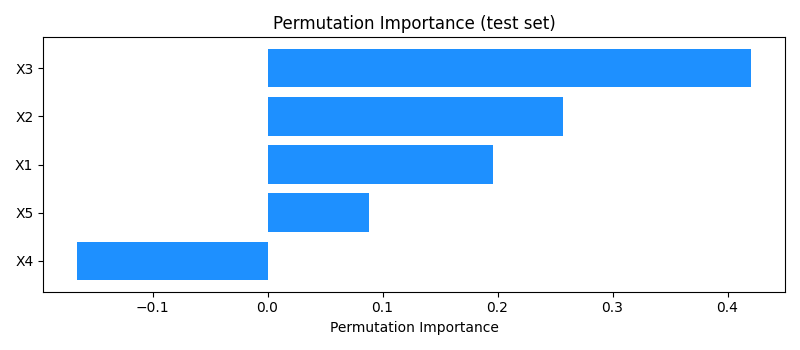
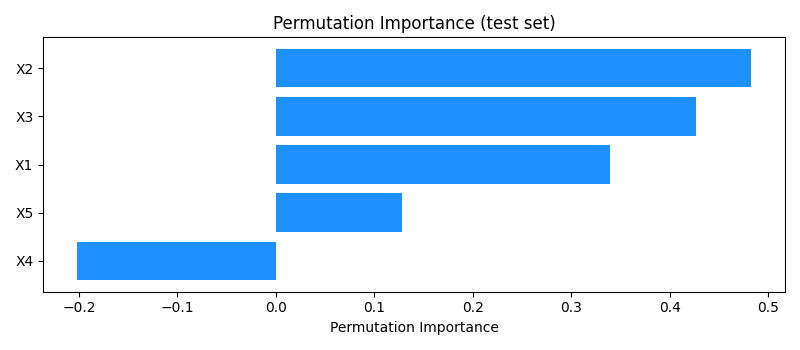
add references

diff --git a/sim.py b/sim.py
@@ -9,26 +9,29 @@ from sklearn.inspection import permutation_importance
 from sklearn.model_selection import train_test_split, GridSearchCV
 from Functions.gen_data import add_noise, extract_coef
 from Functions.plotting import plot_impurity, plot_permutation, plot_SHAP, plot_SHAP_force, plot_PDP, plot_ICE, \
-    check_corr, print_tree
+    check_corr, print_tree, plot_multiple_permutations
 from Functions.pred import define_model
 
-
+# =================================
 # Define the changeable parameters:
-# supported model classes: "enet" for elastic net regression, "lasso" for lasso regression,
+# =================================
+
+# supported model classes for pred_model: "enet" for elastic net regression, "lasso" for lasso regression,
 # ..."tree" for a decision tree, and "rf" for a random forest
-pred_model = "rf" # prediction model used (see above for alternatives)
+
+pred_model = "tree" # string defining the prediction model to use (see above for alternatives)
 n_samples = 100 # number of samples in generated data
 n_features = 5 # number of features (or "independent variables") in generated data
 mean = 0 # mean of generated data
 sd = 1 # standard deviation of generated data
 iv_cor = 0.6 # the Pearson r correlation of the features with one another in the generated data
-dv_r2 = 0.6 # the R squared value representing the extent the features can explain y in the full generated dataset
+dv_r2 = 0.6 # the R-squared value representing the extent the features can explain y in the full generated dataset
 test_size = 0.5 # ratio of training:test data
 cv = 5 # number of cross-validation splits
-scoring = "r2" # used for both the training and the testing: 'r2' is prediction R squared, for other options, see: https://scikit-learn.org/stable/modules/model_evaluation.html
+scoring = "r2" # scoring used for both the training and the testing: 'r2' is prediction R-squared, for other options, see: https://scikit-learn.org/stable/modules/model_evaluation.html
 permutations = 10 # number of permutations in permutation importance calculations
 force_plot_data_instance_num = 0 # the row number indicating which person in the data to create a SHAP force plot for
-decimal_places = 2 # used for rounding
+decimal_places = 2 # integer used for rounding
 seed = 93 # the random seed (used in the data generating process, splitting process, the model fitting process, and the permutation importance calculations)
 
 # -------------------------- Run Simulations --------------------------
@@ -104,33 +107,22 @@ if __name__ == '__main__':
 
     vars = X_feature_names.copy()
 
-    # 1) Permutation importance
+    # 1a) Permutation importance (a single imputation)
     save_path = "Results/Interpretation/Permutation/"
-    result = permutation_importance(model, X_test, y_test, n_repeats=permutations,
+    result = permutation_importance(model, X_test, y_test, n_repeats=1, # a single imputation
                                     random_state=seed, n_jobs=2, scoring=scoring)
     perm_importances_mean = result.importances_mean
     dict = {'Feature': vars, "Importance": perm_importances_mean}
     perm_imp_df = pd.DataFrame(dict)
     # flip so most important at top on graph
     perm_imp_df.sort_values(by="Importance", ascending=True, inplace=True, axis=0)
-    # plot
-    plot_permutation(perm_imp_df=perm_imp_df,
-                     save_path=save_path,
-                     save_name="{}_permutation".format(pred_model))
+    plot_permutation(perm_imp_df=perm_imp_df, save_path=save_path, save_name="{}_permutation".format(pred_model))
 
-    # Plot with bars:
-    sorted_indices = result.importances_mean.argsort()
-    fig, ax = plt.subplots(figsize=(8, 3.5))
-    plt.barh(range(len(vars)), result.importances_mean[sorted_indices],
-             xerr=result.importances_std[sorted_indices], color="dodgerblue")
-    plt.yticks(range(len(vars)), np.array(vars)[sorted_indices])
-    plt.xlabel('Importance')
-    plt.title('Permutation Importances (test set)')
-    plt.tight_layout()
-    plt.savefig(save_path +'{}_bars_permutation.png'.format(pred_model))
-    plt.clf()
-    plt.cla()
-    plt.close()
+    # 1b) Plot multiple permutations with with variance bars:
+    result = permutation_importance(model, X_test, y_test, n_repeats=permutations,
+                                    random_state=seed, n_jobs=2, scoring=scoring)
+    plot_multiple_permutations(result=result, vars=vars, save_path=save_path,
+                               save_name=f"{pred_model}_permutation_with_bars.png")
 
     # 2) Tree-based impurity importance
     if (pred_model == 'rf') or (pred_model == "tree"):
@@ -140,7 +132,7 @@ if __name__ == '__main__':
         dict = {'Feature': vars, "Importance": feature_importances}
         impurity_imp_df = pd.DataFrame(dict)
 
-        # flip so most important at top on graph
+        # flip so most important features at the top of the graph
         impurity_imp_df.sort_values(by="Importance", ascending=True, inplace=True, axis=0)
 
         # plot
@@ -151,20 +143,20 @@ if __name__ == '__main__':
     # 3) SHAP importance
     save_path = "Results/Interpretation/SHAP/"
     if (pred_model == "rf") or (pred_model == "tree"):
-        explainer = shap.TreeExplainer(model, feature_pertubation="tree_path_dependent") #todo: explain
+        explainer = shap.TreeExplainer(model, feature_pertubation="tree_path_dependent")# "true to the data" approach (see Lundberg et al., 2020)
         shap_dict = explainer(X_test)
         shap_values = explainer.shap_values(X_test)
         shap_values_df = pd.DataFrame(shap_values, columns=vars)
 
     elif (pred_model == "enet") or (pred_model == "lasso"):
-        explainer = shap.LinearExplainer(model, X_test, feature_pertubation="correlation_dependent") #todo: explain
+        explainer = shap.LinearExplainer(model, X_test, feature_pertubation="correlation_dependent") # "true to the data" approach (see Lundberg & Lee, 2017)
         shap_dict = explainer(X_test)
         shap_values = explainer.shap_values(X_test)
         shap_values_df = pd.DataFrame(shap_values, columns=vars)
     else:
         print("please enter one of the regression or tree based models: 'rf', 'tree', 'lasso, or 'enet'")
 
-    # Plot summary "global" plots:
+    # 3a) Plot summary "global" plots:
     plot_types = ["bar", "summary", "violin"]
     for plot_type in plot_types:
         plot_SHAP(shap_dict, col_list=vars,
@@ -177,7 +169,7 @@ if __name__ == '__main__':
                       save_path= save_path, title="SHAP importance (test set)",
                       save_name="{}_shap_{}.png".format(pred_model, plot_type))
 
-    # Example of SHAP local force plot:
+    # 3b) Example of SHAP local force plot for data instance i:
     plot_SHAP_force(i=force_plot_data_instance_num, X_test=pd.DataFrame(X_test, columns=vars), model=model, save_path=save_path,
                     save_name="{}_shap_local".format(pred_model), pred_model=pred_model,
                     title="")
@@ -197,7 +189,7 @@ if __name__ == '__main__':
     save_path="Results/Interpretation/ICE/"
     plot_ICE(save_path=save_path, pred_model=pred_model, model=model, X_test=X_test, feature=f1)
 
-    # 6) Print Decision Tree structure (here, for visual purposes only)
+    # 6) Print decision tree structure (here, for visual purposes only)
     if (pred_model == 'rf') or (pred_model == "tree"):
         save_path = "Results/Interpretation/Tree/"
         # pre-define depth parameter (as tree is for visual purposes only)

diff --git a/Functions/plotting.py b/Functions/plotting.py
@@ -52,6 +52,23 @@ def plot_permutation(perm_imp_df, save_path, save_name, figsize=(8, 3.5)):
 
 
 
+def plot_multiple_permutations(result, save_name, save_path, vars, figsize=(8, 3.5)):
+    sorted_indices = result.importances_mean.argsort()
+    fig, ax = plt.subplots(figsize=figsize)
+    plt.barh(range(len(vars)), result.importances_mean[sorted_indices],
+             xerr=result.importances_std[sorted_indices], color="dodgerblue")
+    plt.yticks(range(len(vars)), np.array(vars)[sorted_indices])
+    plt.xlabel('Importance')
+    plt.title('Permutation Importances (test set)')
+    plt.tight_layout()
+    plt.savefig(save_path + save_name)
+    plt.clf()
+    plt.cla()
+    plt.close()
+    return
+
+
+
 def plot_SHAP(shap_dict, col_list, plot_type, n_features,
               save_path, save_name, title="", figsize=(8, 3.5)):
     """
